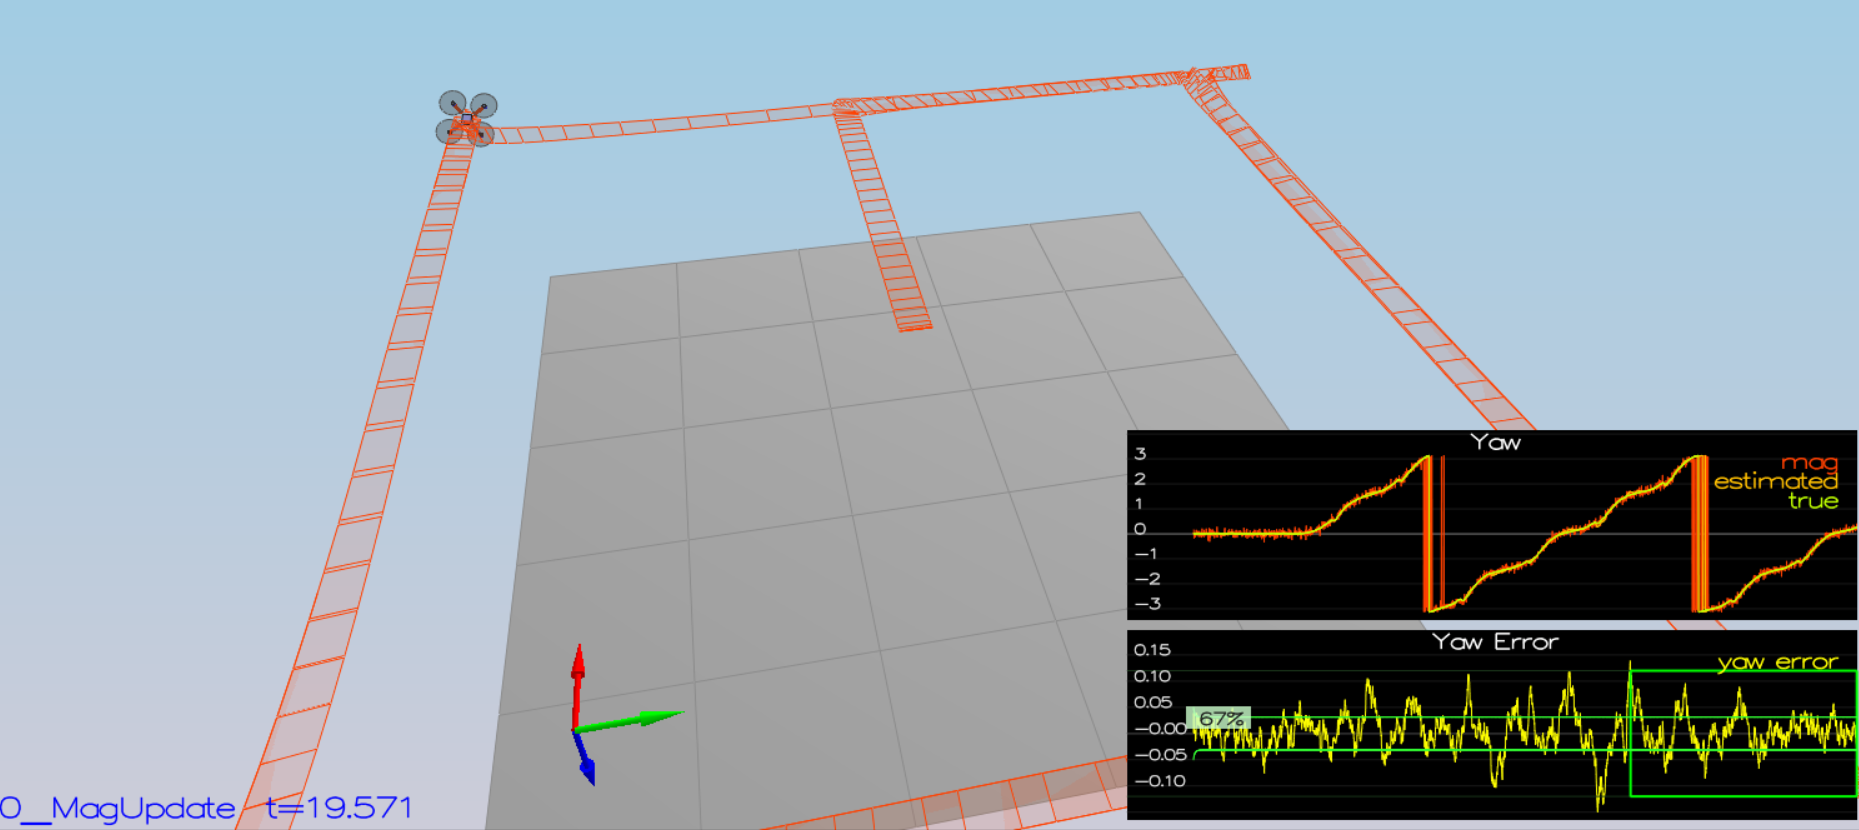
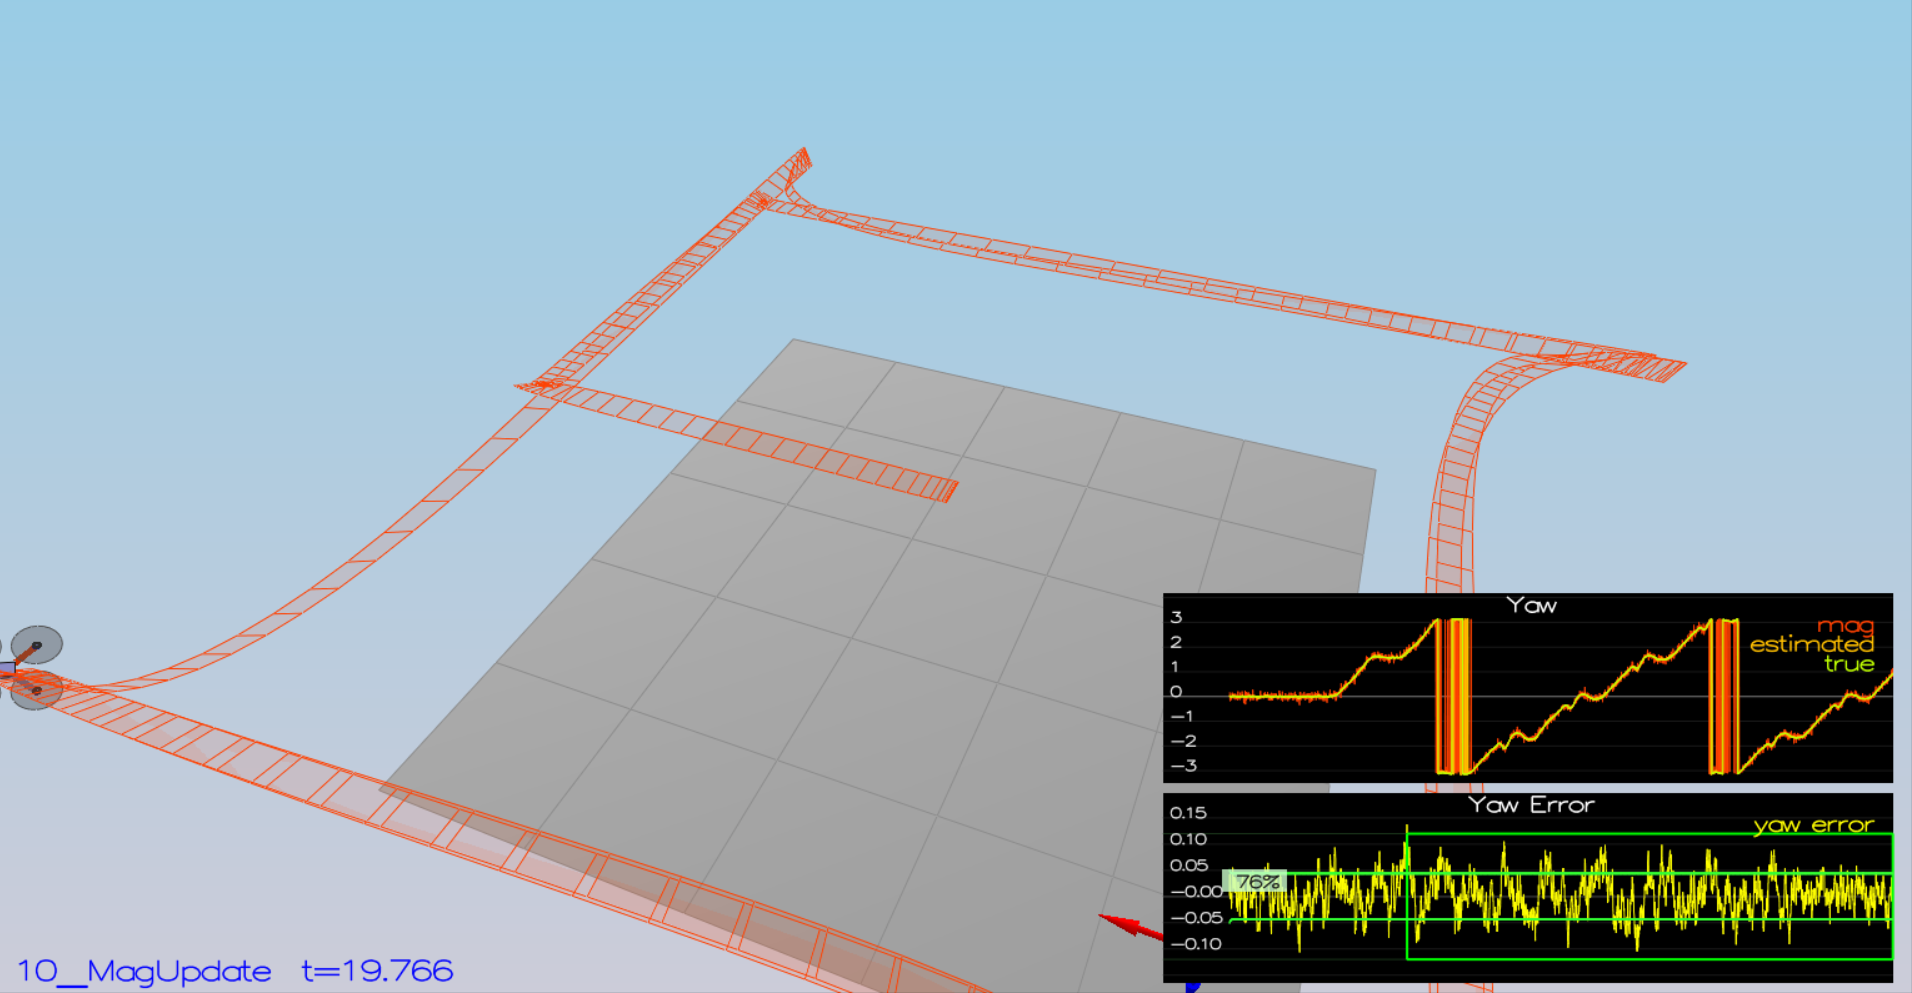
fix review poinst: 1)use real estimator for GPS update scnerio. 2)Use flight controller in magnometer update & GPS update. 3)optimize getting data in zfromx in UpdateFromGPS. 4)Tune parameters for both controller & estimator. 5)Update the write up with new figures.

Changed region(s): [[0.0, 0.0602, 1.0, 1.0], [0.156, 0.6627, 0.2184, 0.6928]]

diff --git a/src/QuadEstimatorEKF.cpp b/src/QuadEstimatorEKF.cpp
@@ -278,12 +278,7 @@ void QuadEstimatorEKF::UpdateFromGPS(V3F pos, V3F vel)
     z(4) = vel.y;
     z(5) = vel.z;
 
-    zFromX(0) = ekfState(0);
-    zFromX(1) = ekfState(1);
-    zFromX(2) = ekfState(2);
-    zFromX(3) = ekfState(3);
-    zFromX(4) = ekfState(4);
-    zFromX(5) = ekfState(5);
+    zFromX = ekfState.head(6);
 
     /**********************************************************************
      *    set output matrix H

diff --git a/writeup.md b/writeup.md
@@ -93,7 +93,7 @@ And `CalculateKalmanGain` function can be found in [line 80](src/kalmanFilter.h#
 ![Scenario 5](images/sc4_mag_update.PNG)
 ```
 PASS: ABS(Quad.Est.E.Yaw) was less than 0.120000 for at least 10.000000 seconds
-PASS: ABS(Quad.Est.E.Yaw-0.000000) was less than Quad.Est.S.Yaw for 67% of the time
+PASS: ABS(Quad.Est.E.Yaw-0.000000) was less than Quad.Est.S.Yaw for 76% of the time
 ```
 
 ## Scenario 5: Closed Loop + GPS Update 
